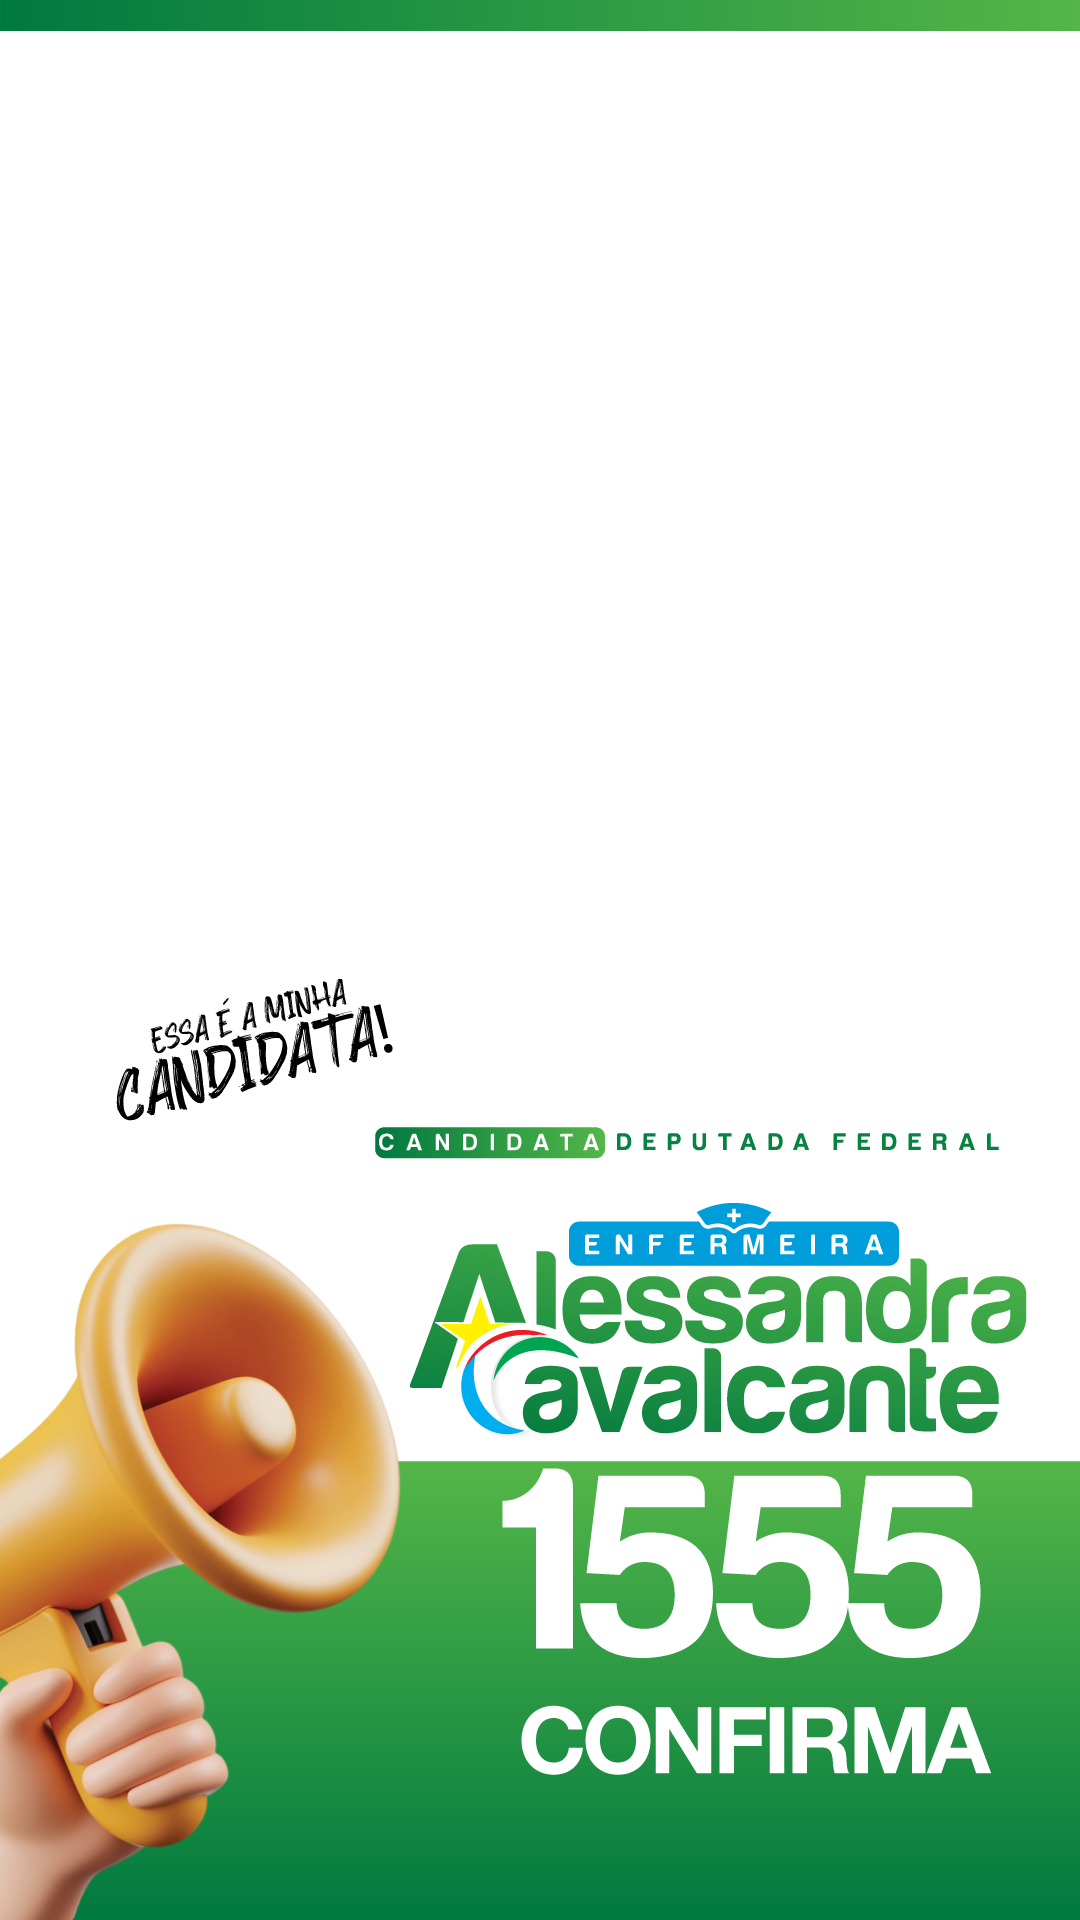
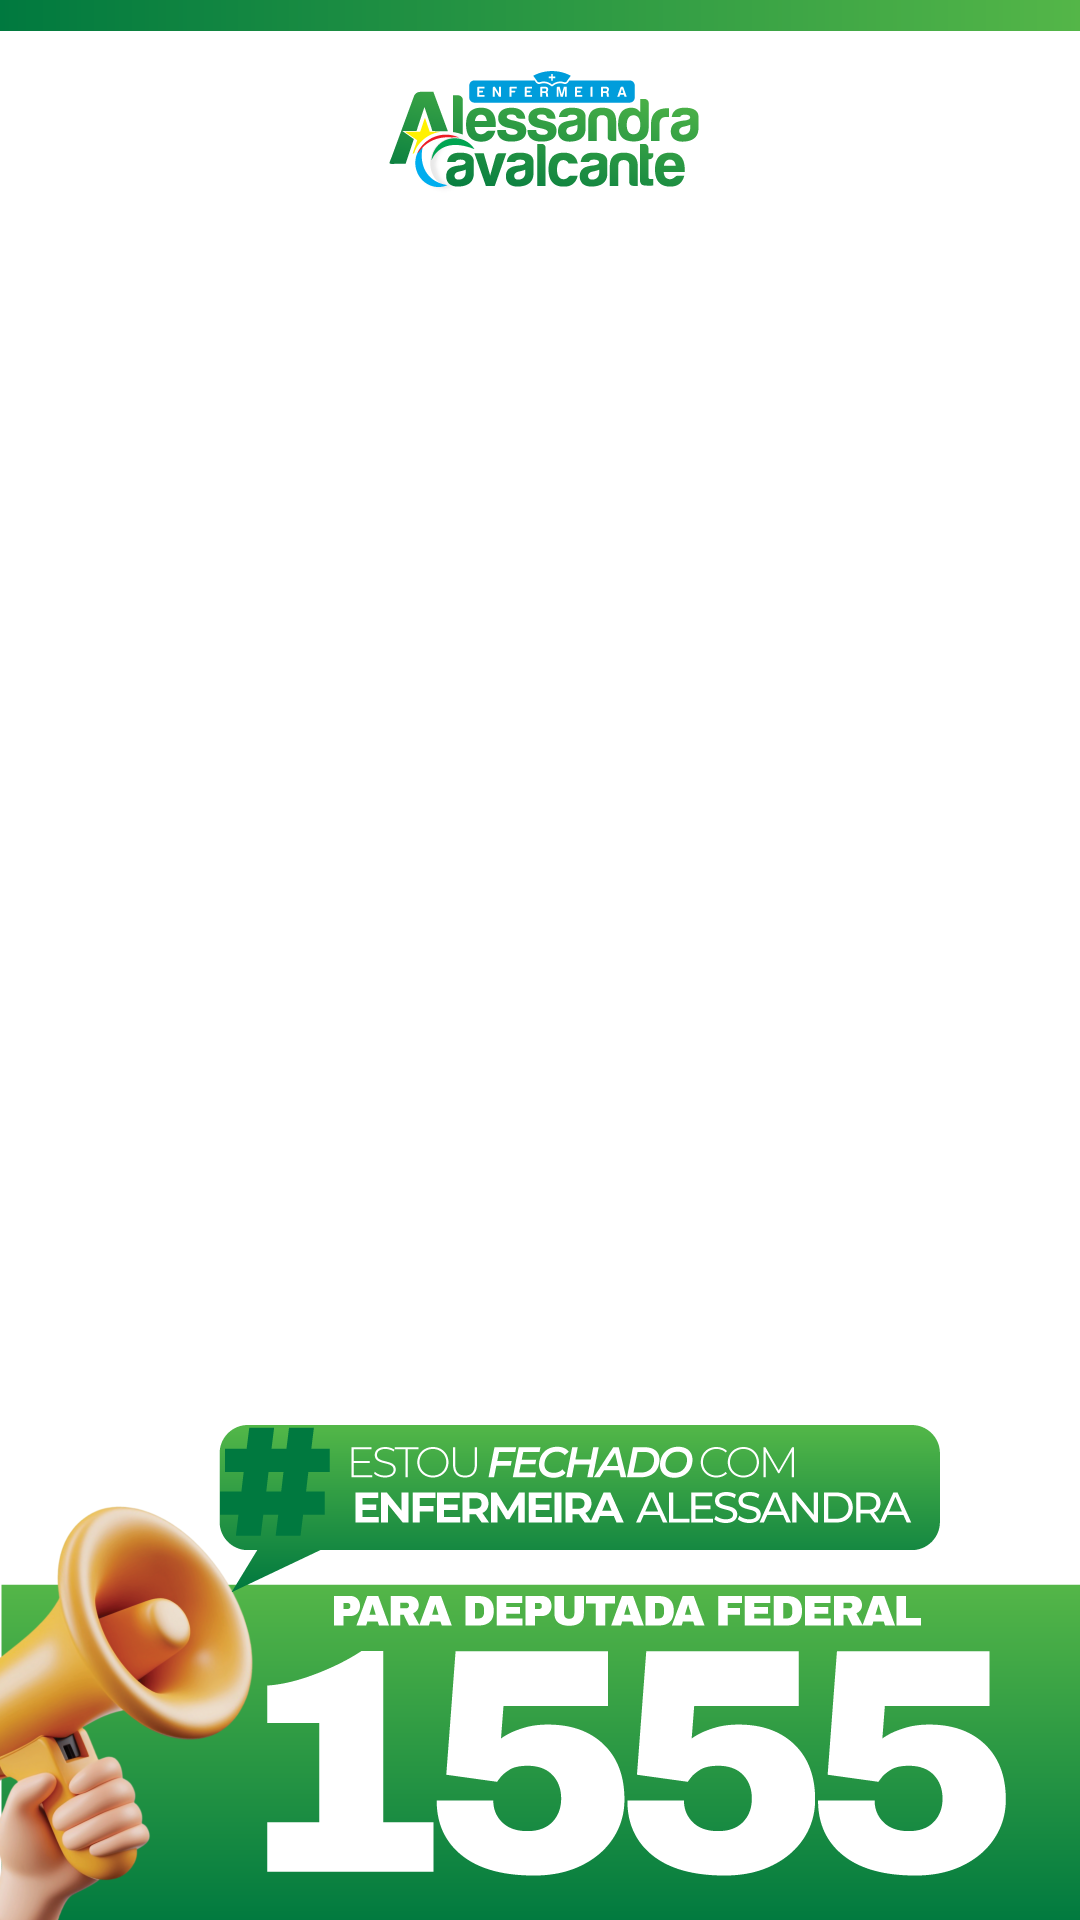
Novas artes da Alessandra (perfil, feed e story) com cache atualizado

Changed region(s): [[0.0, 0.5, 1.0, 1.0], [0.3667, 0.0312, 0.6417, 0.0938]]

diff --git a/alessandra/app.js b/alessandra/app.js
@@ -9,7 +9,7 @@ const CONFIG = {
     perfil: {
       w: 1080,
       h: 1080,
-      moldura: "molduras/perfil.png?v=2",
+      moldura: "molduras/perfil.png?v=3",
       arquivo: "foto-perfil",
       titulo: "Foto de perfil",
       subtitulo: "Coloque seu rosto no círculo e baixe sua foto de apoio pra usar no WhatsApp e no Instagram.",
@@ -19,7 +19,7 @@ const CONFIG = {
     feed: {
       w: 1080,
       h: 1350,
-      moldura: "molduras/feed.png",
+      moldura: "molduras/feed.png?v=3",
       arquivo: "post-feed",
       titulo: "Post para o feed",
       subtitulo: "Sua foto na moldura oficial pra postar no feed do Instagram e do Facebook.",
@@ -29,7 +29,7 @@ const CONFIG = {
     story: {
       w: 1080,
       h: 1920,
-      moldura: "molduras/story.png",
+      moldura: "molduras/story.png?v=3",
       arquivo: "story",
       titulo: "Story",
       subtitulo: "Compartilhe seu apoio nos stories do Instagram e no status do WhatsApp.",

diff --git a/alessandra/index.html b/alessandra/index.html
@@ -12,7 +12,7 @@
   <link rel="preconnect" href="https://fonts.googleapis.com" />
   <link rel="preconnect" href="https://fonts.gstatic.com" crossorigin />
   <link href="https://fonts.googleapis.com/css2?family=Plus+Jakarta+Sans:wght@400;600;700;800&display=swap" rel="stylesheet" />
-  <link rel="stylesheet" href="styles.css?v=6" />
+  <link rel="stylesheet" href="styles.css?v=7" />
 </head>
 <body>
   <header class="topo">
@@ -111,6 +111,6 @@
 
   <input type="file" id="fileInput" accept="image/*" hidden />
   <input type="file" id="cameraInput" accept="image/*" capture="user" hidden />
-  <script src="app.js?v=6"></script>
+  <script src="app.js?v=7"></script>
 </body>
 </html>
